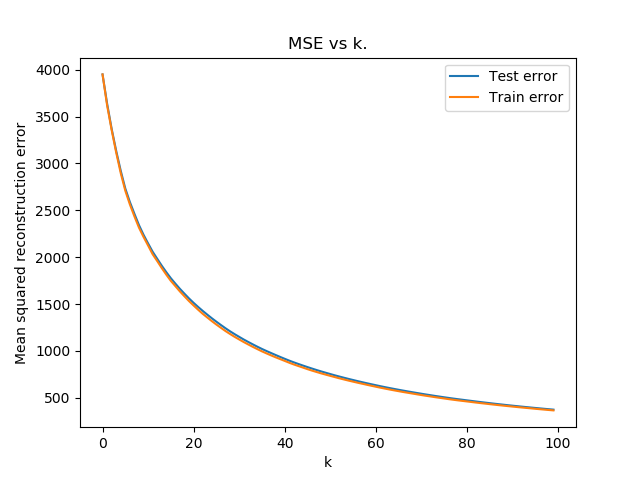
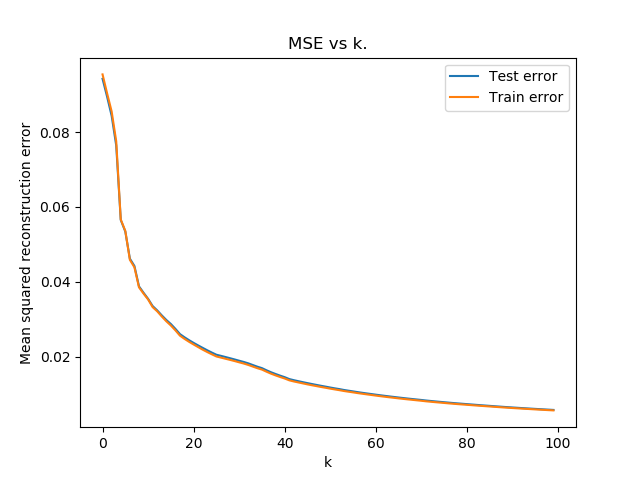
Fix A6.

diff --git a/HW3/HW3_code_solutions/pca.py b/HW3/HW3_code_solutions/pca.py
@@ -33,6 +33,9 @@ def load_mnist_dataset(path="data/mnist_data/"):
     train, trainLabels = map(np.array, mndata.load_training())
     test, testLabels  = map(np.array, mndata.load_testing())
 
+    train = train/255.0
+    test = test/255.0
+
     return train, trainLabels, test, testLabels
 
 
@@ -119,7 +122,7 @@ def plot_n_eigenvectors(n, eigenvectors, nXaxes=2, nYaxes=5):
     """
     fig, axes = plt.subplots(nXaxes, nYaxes)
 
-    for ax, k, eigVec in zip(axes.ravel(), range(n), eigenvectors):
+    for ax, k, eigVec in zip(axes.ravel(), range(n), eigenvectors.T):
         ax.imshow(eigVec.reshape((28, 28)))
         ax.set_title(f"k={k}")
         ax.axis("off")
@@ -127,7 +130,7 @@ def plot_n_eigenvectors(n, eigenvectors, nXaxes=2, nYaxes=5):
     plt.show()
 
 
-def plot_pca(x, y, eigenvectors, mu, digits =(2, 4, 8, 9), ks=(5, 15, 40, 100)):
+def plot_pca(x, y, eigenvectors, mu, digits =(2, 6, 7), ks=(5, 15, 40, 100)):
     """Plots the original digits and their reconstruction for different number
     of used eigenvectors.
 
@@ -156,15 +159,14 @@ def plot_pca(x, y, eigenvectors, mu, digits =(2, 4, 8, 9), ks=(5, 15, 40, 100)):
     idxDigits = [np.where(y==digit)[0][0] for digit in digits]
 
     for yax, digit, idxDigit in zip(axes[:, 0], digits, idxDigits):
-        yax.imshow((x+mu.T)[idxDigit].reshape((28, 28)))
+        yax.imshow(x[idxDigit].reshape((28, 28)))
         yax.set_title(f"Original image (digit {digit})")
         yax.axis("off")
 
     for yax, digit, idxDigit in zip(axes[:, 1:], digits, idxDigits):
         for xax, k in zip(yax, ks):
             Vk = eigenvectors[:, :k]
-            #breakpoint()
-            reconstruction = np.dot(Vk, np.dot(Vk.T, x[idxDigit])).reshape((784, 1))
+            reconstruction = np.dot(Vk, np.dot(Vk.T, (x-mu.T)[idxDigit])).reshape((784, 1))
             reconstruction += mu
             xax.imshow(reconstruction.reshape((28, 28)))
             xax.set_title(f"Reconstructed (k= {k})")
@@ -193,30 +195,29 @@ def pca():
     sigElem = train - np.dot(I, mu.T)
     sigma = np.dot(sigElem.T, sigElem)/n
 
-    eigenvalues, eigenvectors = np.linalg.eig(sigma)
+    eigenvalues, eigenvectors = np.linalg.eigh(sigma)
+    eigenvalues = eigenvalues[np.argsort(-1 * eigenvalues)]
+    eigenvectors = eigenvectors[:, np.argsort(eigenvalues)]
+
     totEigenSum = np.sum(eigenvalues)
 
-    # de-mean features
-    train = train - mu.T
-    test = test - mu.T
-
-    trainErrors, testErrors, eigenRatios = [], [], []
-    eigenSum, k = 0, np.arange(100)
-    for i in k:
-        Vk = eigenvectors[:, :(i+1)]
-        transMatrix = np.dot(Vk, Vk.T)
-        trainErrors.append(calculate_errors(train, transMatrix=transMatrix))
-        testErrors.append(calculate_errors(test, transMatrix=transMatrix))
-        eigenSum += eigenvalues[i]
-        eigenRatios.append(1 - (eigenSum/totEigenSum))
-
-    for i in (1, 2, 10, 30, 50):
-        print(f"{i}th eigenvalue: {eigenvalues[i]}")
-    print(f"Sum of eigenvalues: {totEigenSum}")
-
-    plot_n_eigenvectors(25, eigenvectors, nXaxes=5, nYaxes=5)
-    plot_eigen_fraction(k, eigenRatios)
-    plot_errors(k, trainErrors, testErrors)
+#    trainErrors, testErrors, eigenRatios = [], [], []
+#    eigenSum, k = 0, np.arange(100)
+#    for i in k:
+#        Vk = eigenvectors[:, :(i+1)]
+#        transMatrix = np.dot(Vk, Vk.T)
+#        trainErrors.append(calculate_errors(train, transMatrix=transMatrix))
+#        testErrors.append(calculate_errors(test, transMatrix=transMatrix))
+#        eigenSum += eigenvalues[i]
+#        eigenRatios.append(1 - (eigenSum/totEigenSum))
+#
+#    for i in (1, 2, 10, 30, 50):
+#        print(f"{i}th eigenvalue: {eigenvalues[i-1]}")
+#    print(f"Sum of eigenvalues: {totEigenSum}")
+#
+#    plot_n_eigenvectors(25, eigenvectors, nXaxes=5, nYaxes=5)
+#    plot_eigen_fraction(k, eigenRatios)
+#    plot_errors(k, trainErrors, testErrors)
     plot_pca(train, trainLabels, eigenvectors, mu)
 
 
